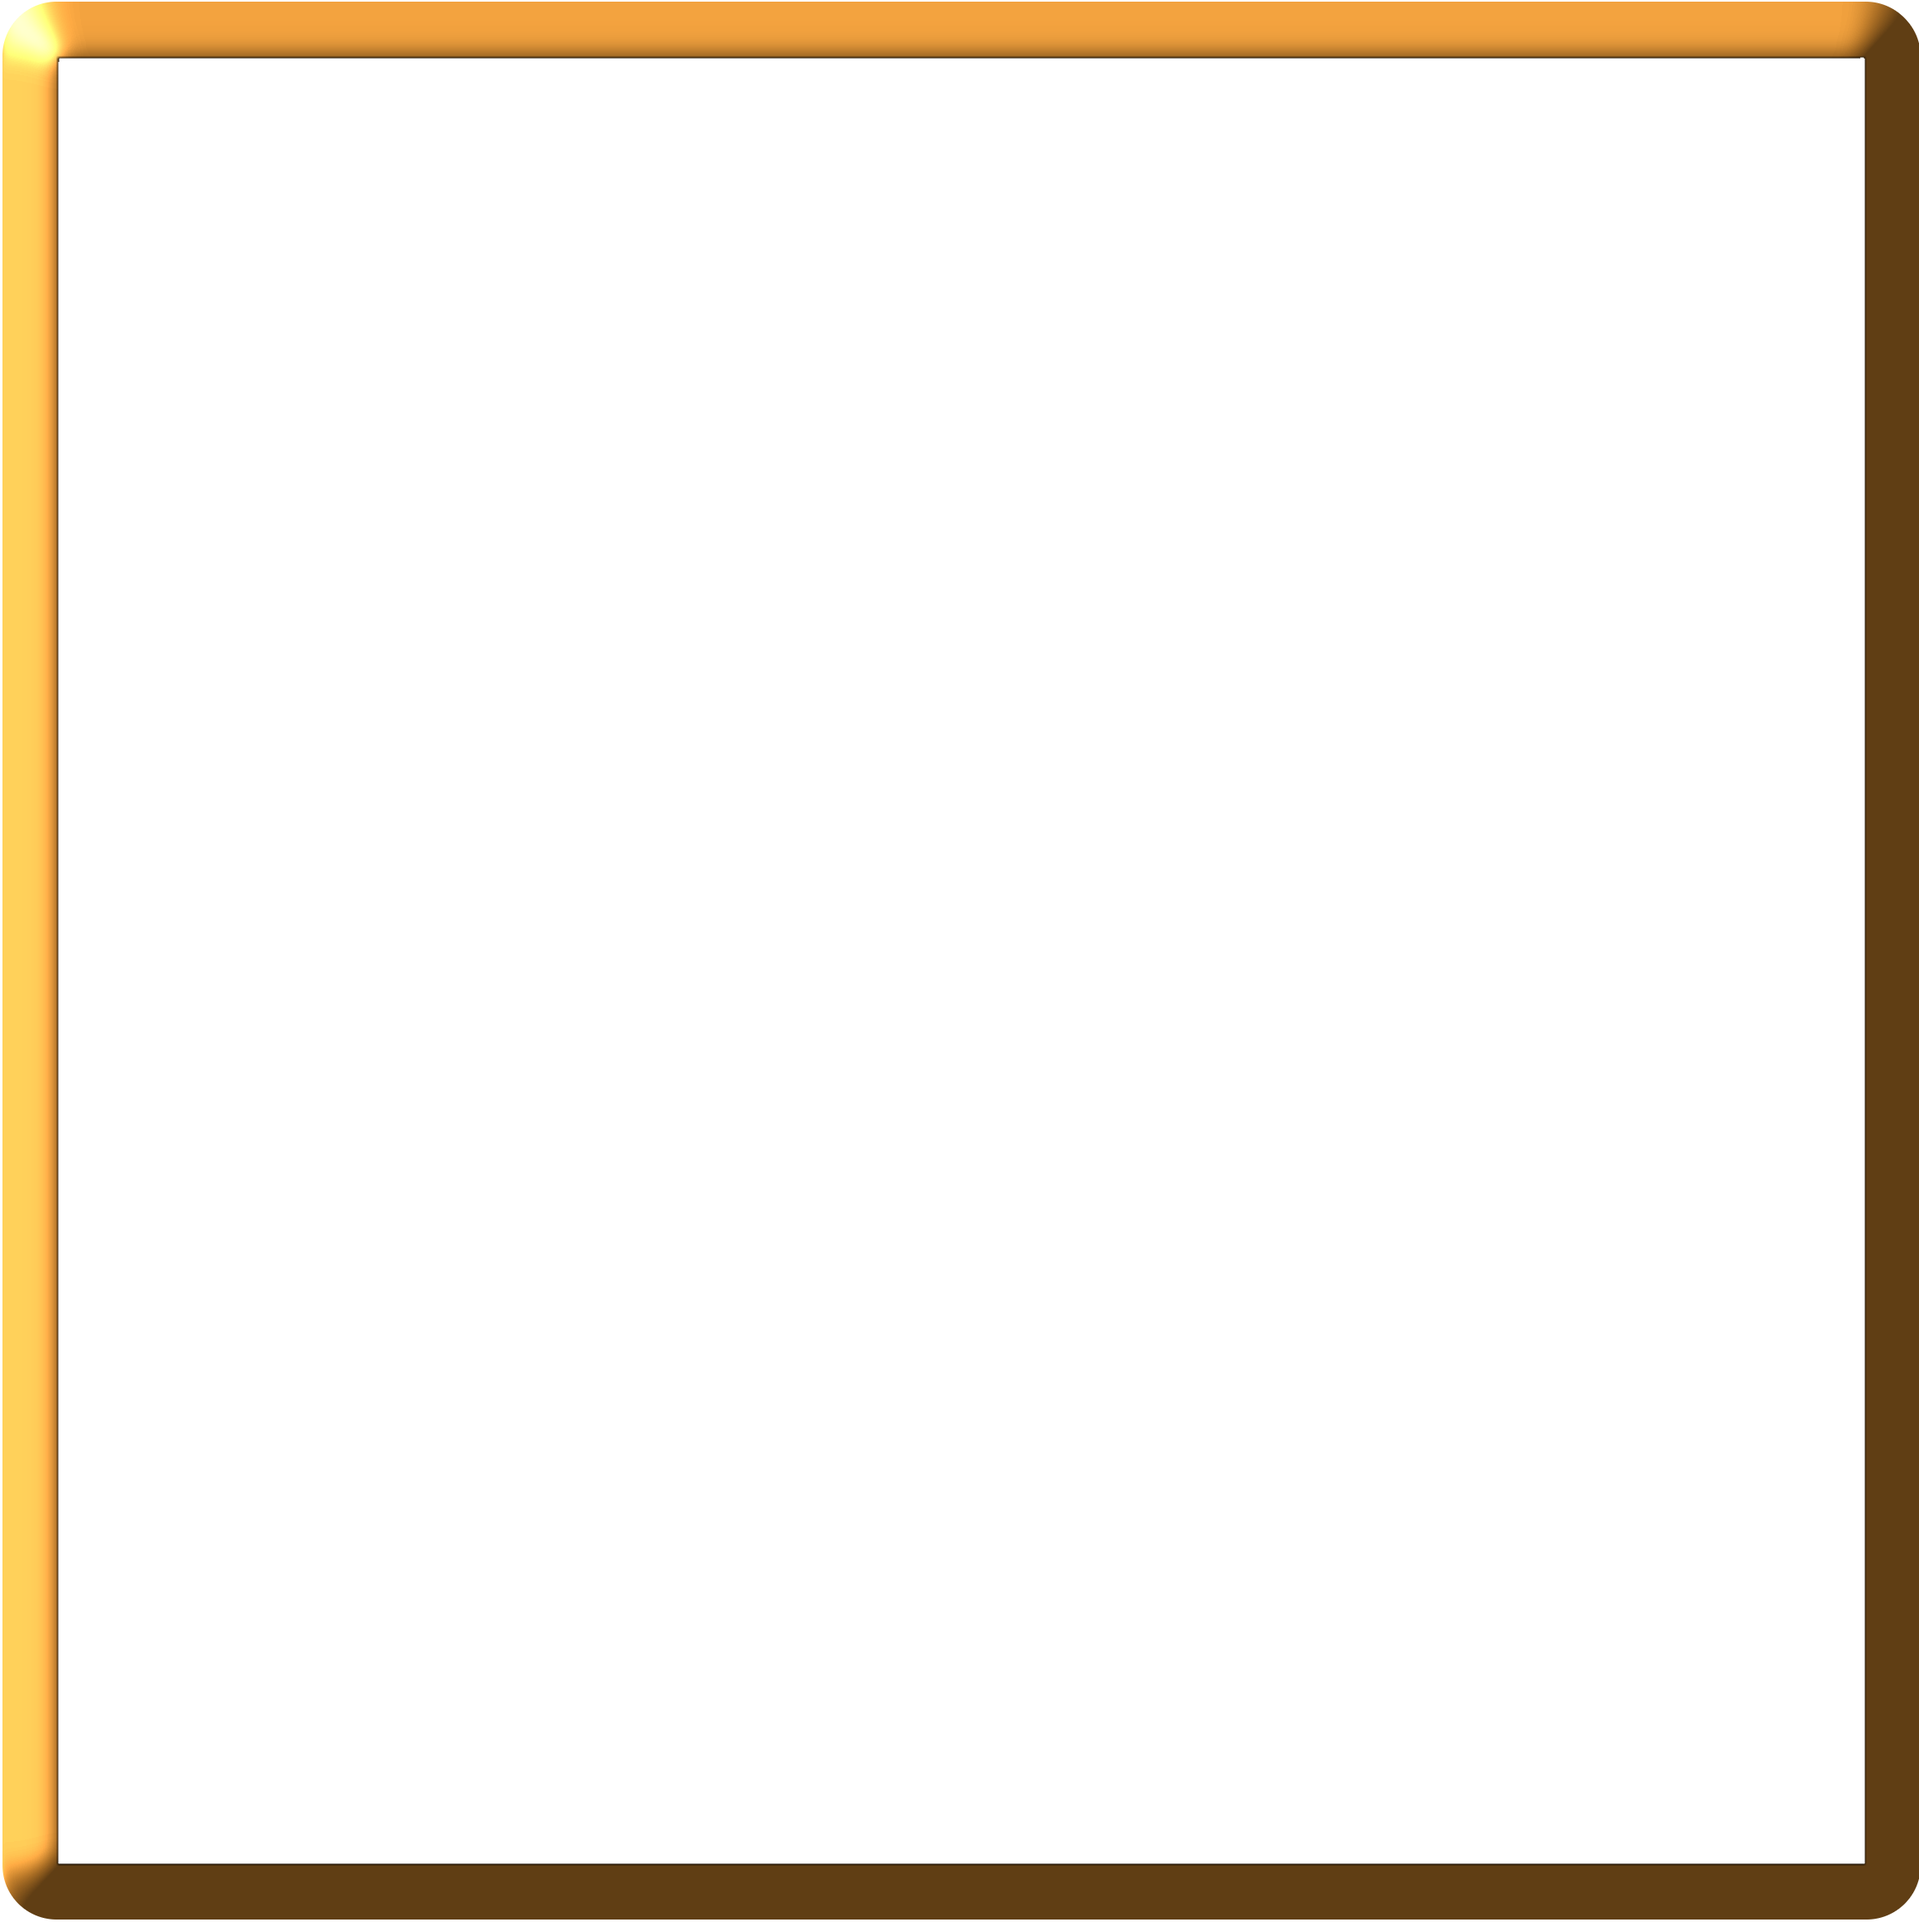
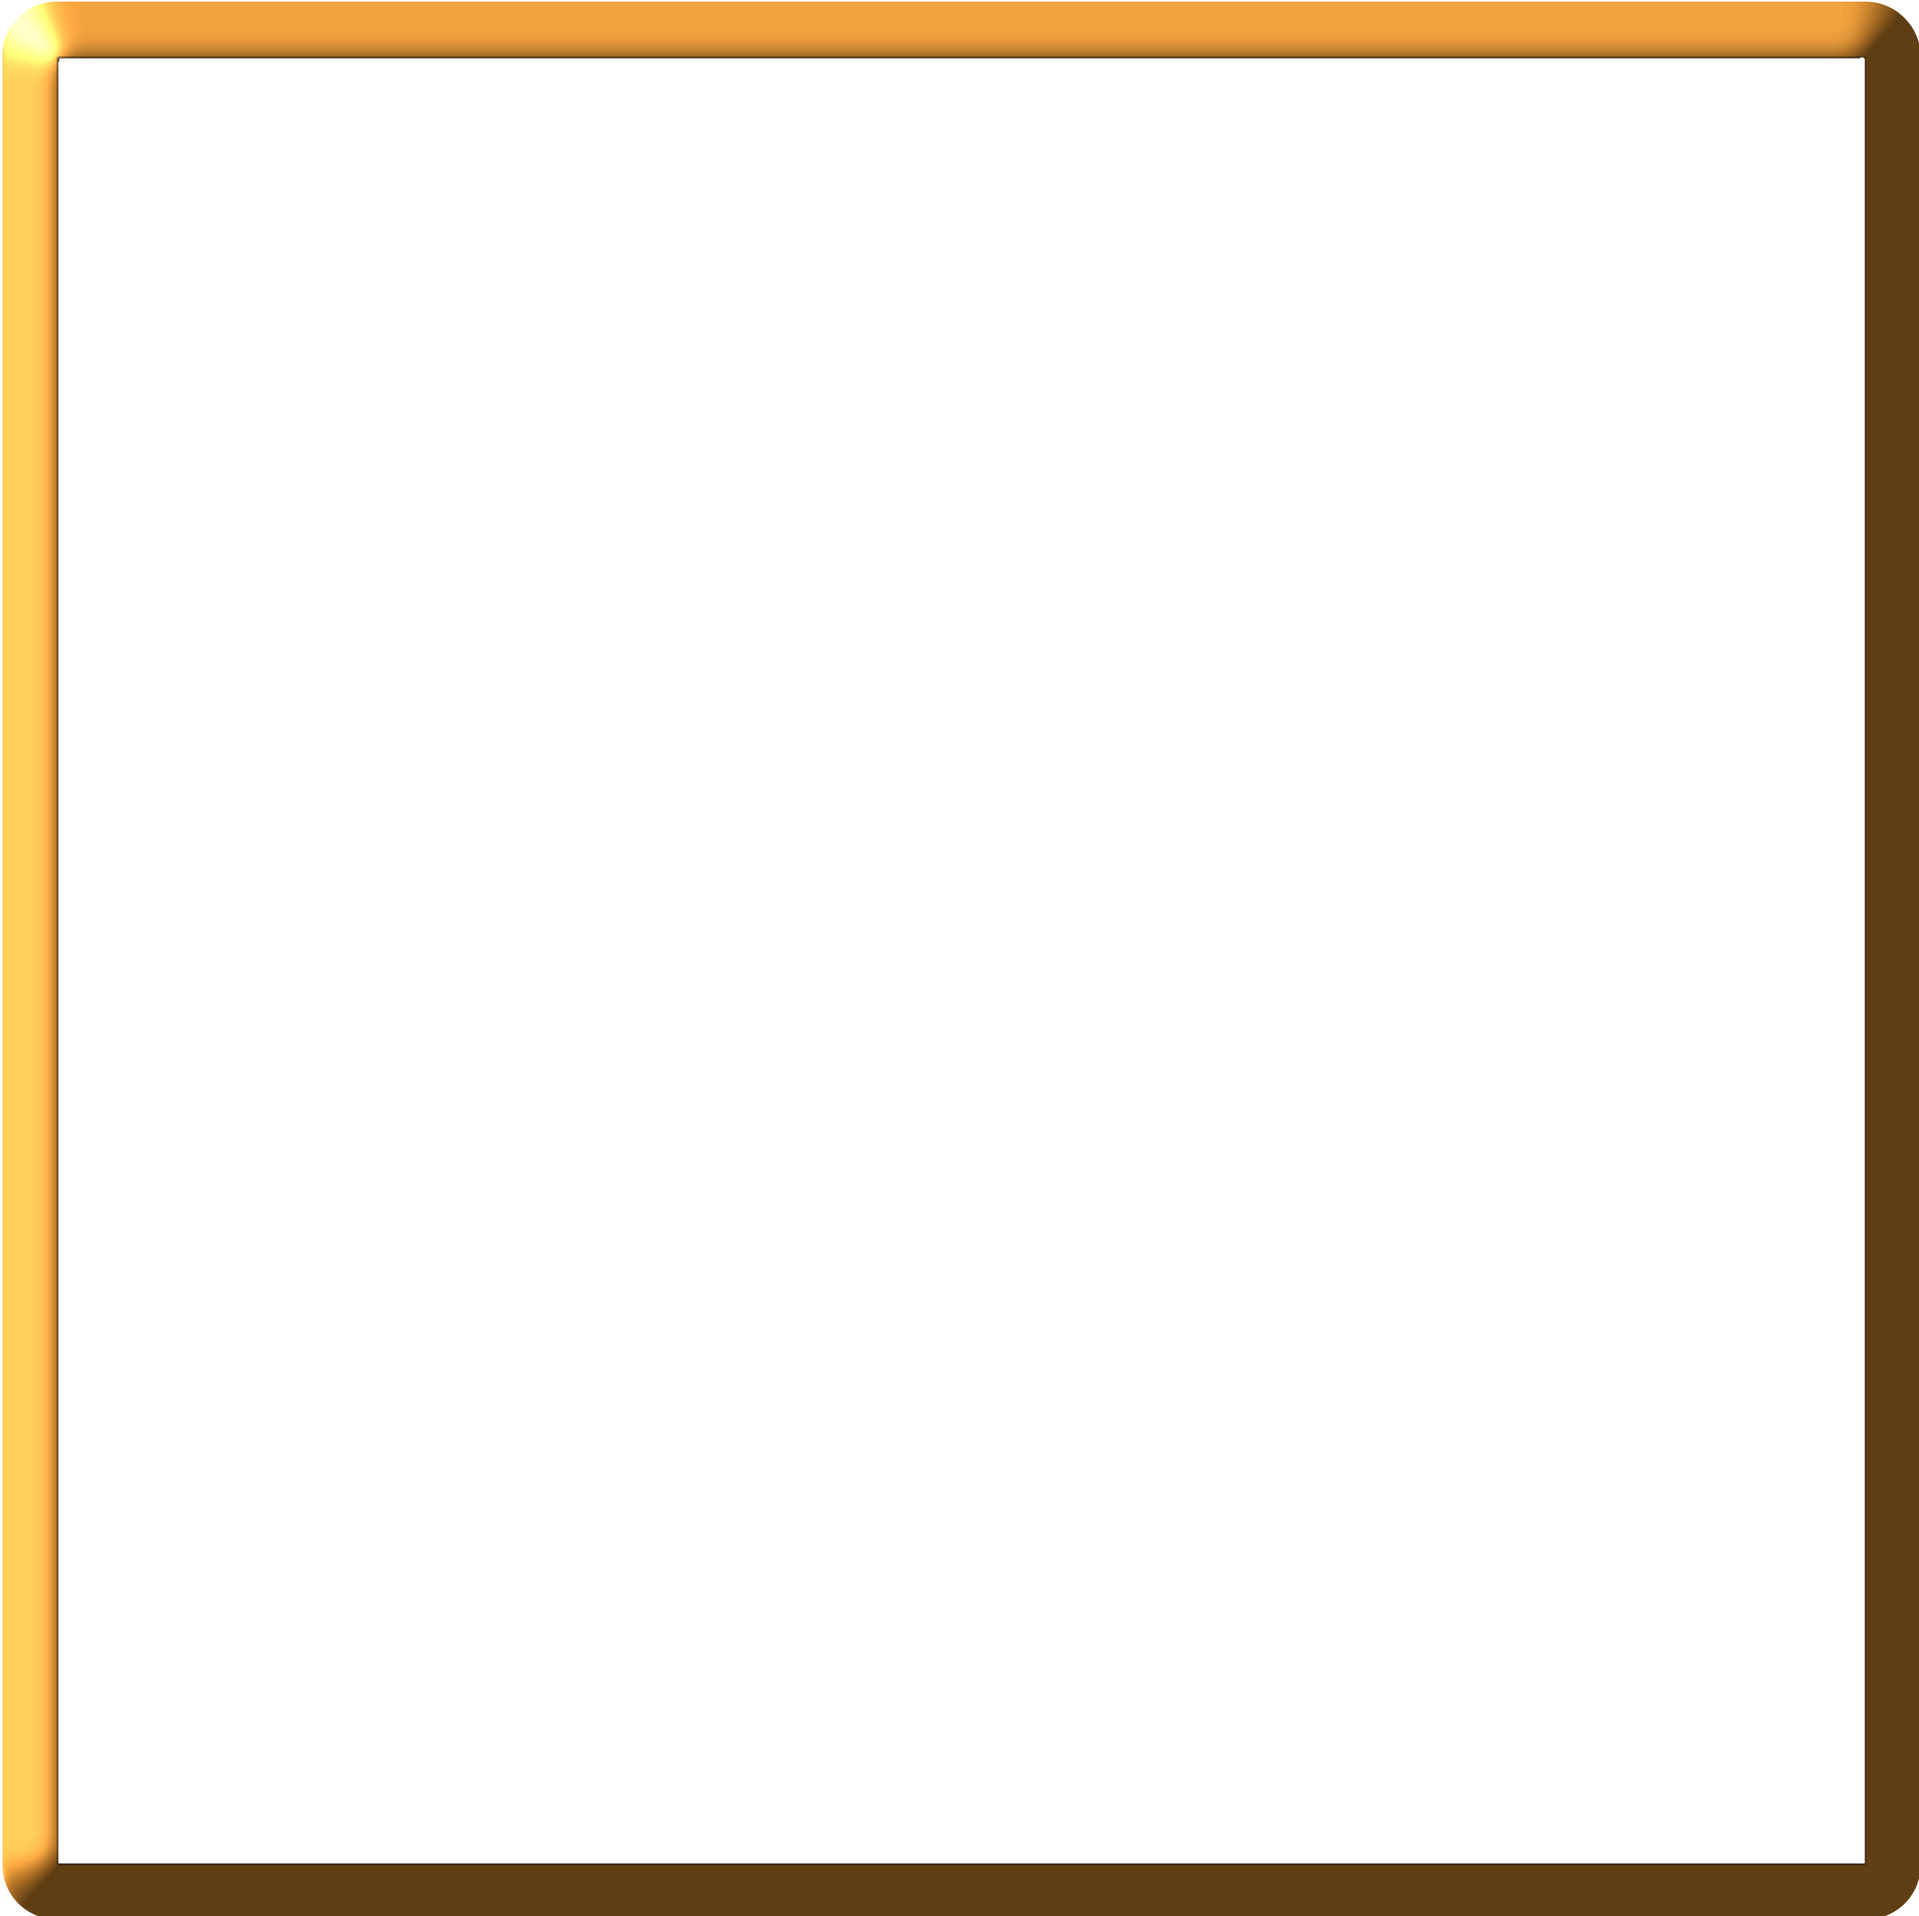
feat: update confirmation dialog styles and improve button layout

Changed region(s): [[0.0, 0.9621, 0.9918, 1.0], [0.9918, 0.9621, 1.0, 0.9931]]

diff --git a/DrawingWebServer/public/assets/css/style.css b/DrawingWebServer/public/assets/css/style.css
@@ -286,7 +286,7 @@ button {
     display: flex;
     align-items: center;
     justify-content: center;
-    background: rgba(0, 0, 0, 0.5);
+    background: rgba(0, 0, 0, 0.4);
     z-index: 20;
 }
 
@@ -298,12 +298,15 @@ button {
 
 .confirmation-dialog {
     width: min(90vw, 360px);
-    padding: 24px 20px 18px;
+    padding: 24px 20px;
     box-shadow: 0 10px 30px rgba(0, 0, 0, 0.35);
     text-align: center;
     background-image: url("/assets/img/old-paper.jpg");
     background-size: cover;
-    border-radius: 10px;
+    border: 10px solid transparent;
+    border-image: url("/assets/img/border.png") 50 round;
+    border-radius: 16px;
+    overflow: hidden;
 }
 
 /* Dialog heading */
@@ -343,21 +346,18 @@ button {
     color: white;
     cursor: pointer;
     transition: transform 0.2s ease, filter 0.2s ease;
-}
-
-/* Cancel button */
-
-.dialog-button.cancel {
+    display: flex;
+    align-items: center;
+    justify-content: center;
     background-image: url("/assets/img/button-long.png");
+    background-size: cover;
 }
 
 /* Confirm button */
 
 .dialog-button.confirm {
-    background-image: url("/assets/img/button-long.png");
     filter: hue-rotate(-30deg) saturate(150%) contrast(120%);
 }
-
 
 /* ========================================
     HOVER & INTERACTIONS

diff --git a/DrawingWebServer/public/index.html b/DrawingWebServer/public/index.html
@@ -20,7 +20,7 @@
             <input id="brush-size" type="range" min="2" max="30" step="1" value="6">
         </div>
         <button class="tool" id="clear" type="button" title="Clear Canvas">
-        <img src="/assets/svg/bin.svg" alt="Eraser" class="icon">
+            <img src="/assets/svg/bin.svg" alt="Eraser" class="icon">
         </button>
     </div>
     <!--    CANVAS-->
